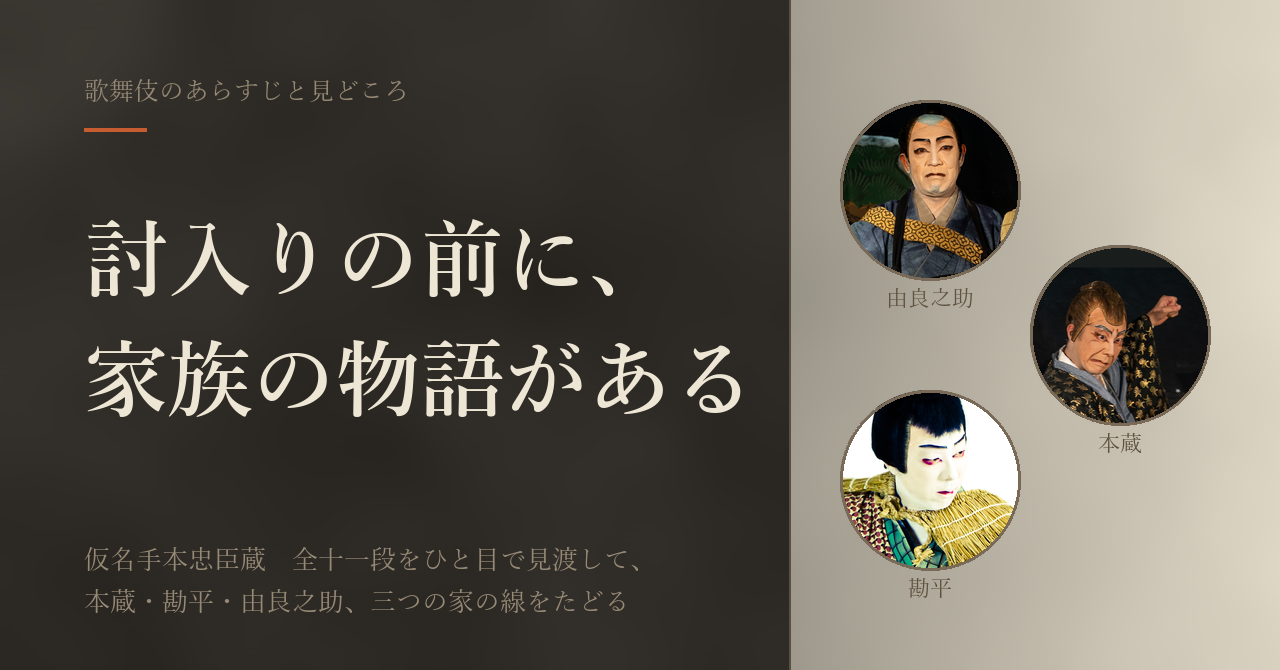
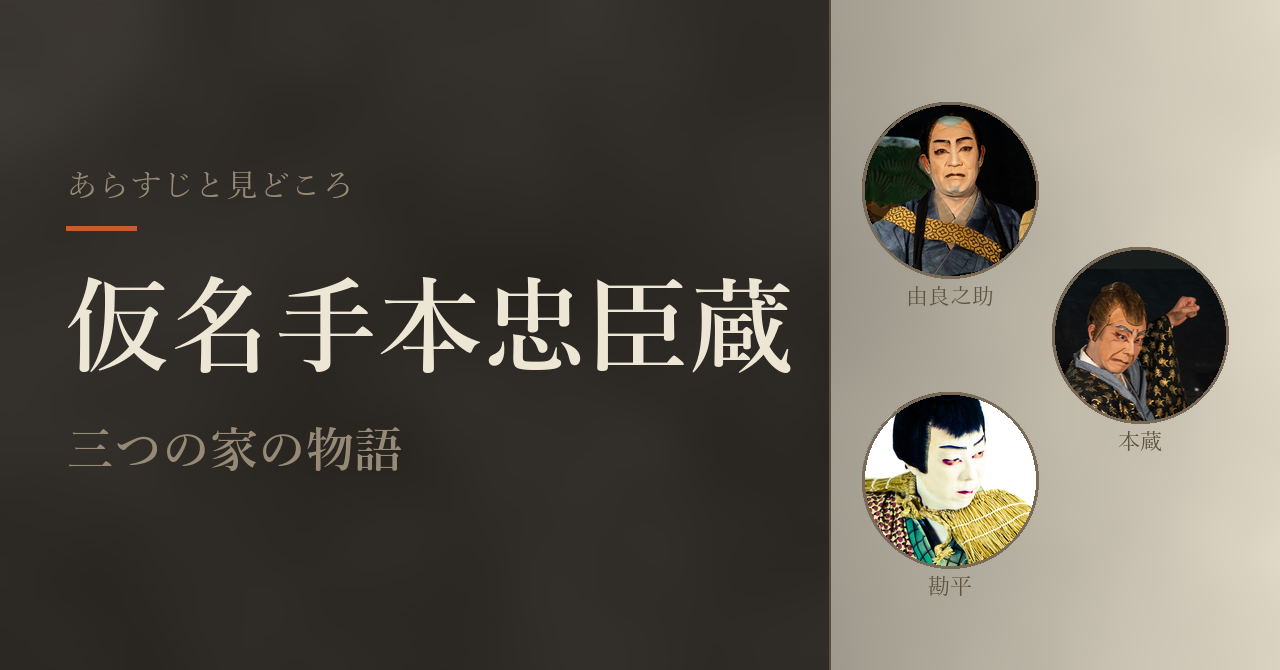
note記事: 忠臣蔵の見出し画像を演目名主役のシンプルな形に
文字は「あらすじと見どころ」「仮名手本忠臣蔵」「三つの家の物語」の三つだけにし、
下の説明文を外す。演目名104px・添え48px・肩32px。右の紙は三人の顔（由良之助・本蔵・勘平）。
通し上演の時期に演目名で探す人に向け、縮小表示でも演目名が読める大きさにした。

diff --git a/note-articles/thumbnails/gen_thumb_chushingura_photo.py b/note-articles/thumbnails/gen_thumb_chushingura_photo.py
@@ -18,7 +18,7 @@ import gen_thumb_chushingura as T  # noqa: E402  墨地・和紙・フォント
 import gen_kankeizu_chushingura as K  # noqa: E402  丸写真
 
 W, H = T.W, T.H
-X0 = 790  # 紙の左端（文字版より広く取る）
+X0 = 830  # 紙の左端（文字版より広く取る）
 
 
 def main():
@@ -27,27 +27,26 @@ def main():
     img = Image.fromarray(np.clip(arr, 0, 255).astype(np.uint8)).convert("RGB")
     d = ImageDraw.Draw(img)
 
-    f_eyebrow = T.font(T.MIN, 25)
-    f_main = T.font(T.MINB, 84)
-    f_foot = T.font(T.MIN, 26)
+    f_eyebrow = T.font(T.MIN, 32)
+    f_main = T.font(T.MINB, 104)    # 演目名を主役に
+    f_sub = T.font(T.MINB, 48)      # 記事の読み筋
     f_label = T.font(T.MIN, 22)
 
-    x = 84
-    d.text((x, 78), "歌舞伎のあらすじと見どころ", font=f_eyebrow, fill=T.INK_DIM)
-    d.rectangle([x, 128, x + 62, 131], fill=T.AKANE)
-    d.text((x, 216), "討入りの前に、", font=f_main, fill=T.INK)
-    d.text((x, 336), "家族の物語がある", font=f_main, fill=T.INK)
-    d.text((x, 546), "仮名手本忠臣蔵　全十一段をひと目で見渡して、", font=f_foot, fill=T.INK_DIM)
-    d.text((x, 588), "本蔵・勘平・由良之助、三つの家の線をたどる", font=f_foot, fill=T.INK_DIM)
+    # 文字は三つだけ: 肩・演目名・添えの一行。下の説明文は置かない
+    x = 66
+    d.text((x, 168), "あらすじと見どころ", font=f_eyebrow, fill=T.INK_DIM)
+    d.rectangle([x, 226, x + 70, 230], fill=T.AKANE)
+    d.text((x, 272), "仮名手本忠臣蔵", font=f_main, fill=T.INK)
+    d.text((x, 424), "三つの家の物語", font=f_sub, fill=T.INK_DIM)
 
     # 右端の紙: 三つの家の顔
-    faces = [("yura", 930, 190, 180), ("honzo", 1120, 335, 180), ("kanpei", 930, 480, 180)]
+    faces = [("yura", 950, 190, 176), ("honzo", 1140, 335, 176), ("kanpei", 950, 480, 176)]
     for key, cx, cy, dia in faces:
         p = K.round_photo(key, dia)
         img.paste(p, (int(cx - dia / 2), int(cy - dia / 2)), p)
         d.ellipse([cx - dia / 2, cy - dia / 2, cx + dia / 2, cy + dia / 2],
                   outline=(120, 106, 86), width=3)
-    labels = [("由良之助", 930, 190 + 90 + 6), ("本蔵", 1120, 335 + 90 + 6), ("勘平", 930, 480 + 90 + 6)]
+    labels = [("由良之助", 950, 190 + 88 + 6), ("本蔵", 1140, 335 + 88 + 6), ("勘平", 950, 480 + 88 + 6)]
     for text, cx, ty in labels:
         w = d.textlength(text, font=f_label)
         d.text((cx - w / 2, ty), text, font=f_label, fill=(96, 82, 64))
